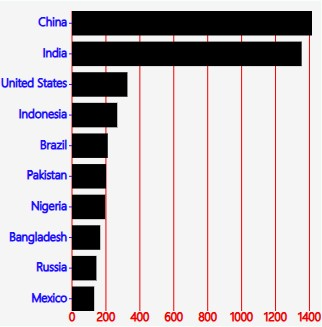
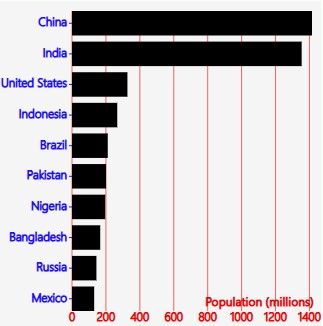
modified:   public/BarChartExample.jpg modified:   src/data/exampleData.jsx modified:   src/examples/charts/BarChartExample.jsx

diff --git a/src/examples/charts/BarChartExample.jsx b/src/examples/charts/BarChartExample.jsx
@@ -88,6 +88,7 @@ if( csvData ){
             <line
                 y2={innerHeight}
                 stroke='red'
+                strokeWidth=".6"
             >
             </line>
             <text
@@ -181,6 +182,17 @@ if( csvData ){
                         // Render the marks (bars)
                         marks
                     }
+                    <text
+                        x={innerWidth/1.8}
+                        y={innerHeight - 5}
+                        style={{
+                            stroke:"red",
+                            strokeWidth:".75",
+                            fontSize: ".75rem"
+                        }}
+                    >
+                        Population (millions)
+                    </text>
                 </g>
             </svg>
         )

diff --git a/src/data/exampleData.jsx b/src/data/exampleData.jsx
@@ -178,7 +178,12 @@ export const exampleData = [
         img: BarChartExampleImage,
         description: 
         <>
-            Description goes here
+            This <a href='https://github.com/HarryJamesGreenblatt/Data-Visualization-Using-D3-js/blob/main/src/examples/charts/BarChartExample.jsx'>
+                <code>BarChartExample component</code>
+            </a> 
+            uses a <em> Band Scale</em> to define the <em>height</em> of each of the 
+            <em> rectangular marks</em>, and a <b> Linear Scale</b> to express the 
+            <b> Population</b> relative to each <b>Country</b>.
         </>,
         component: <BarChartExample />,
         codeSnippet: codeSnippets['DataVizReact_4']
